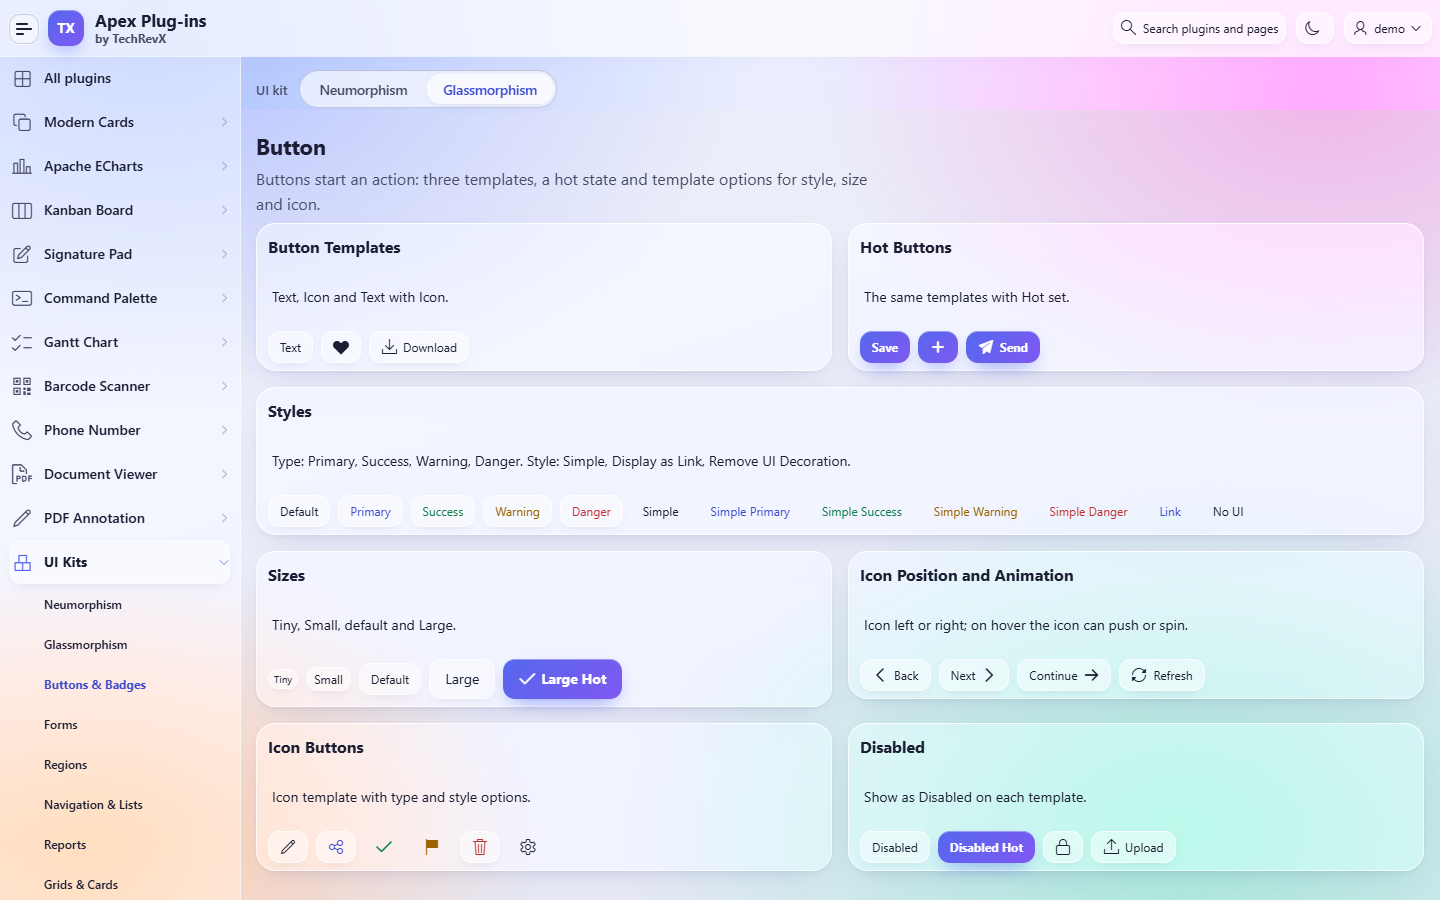
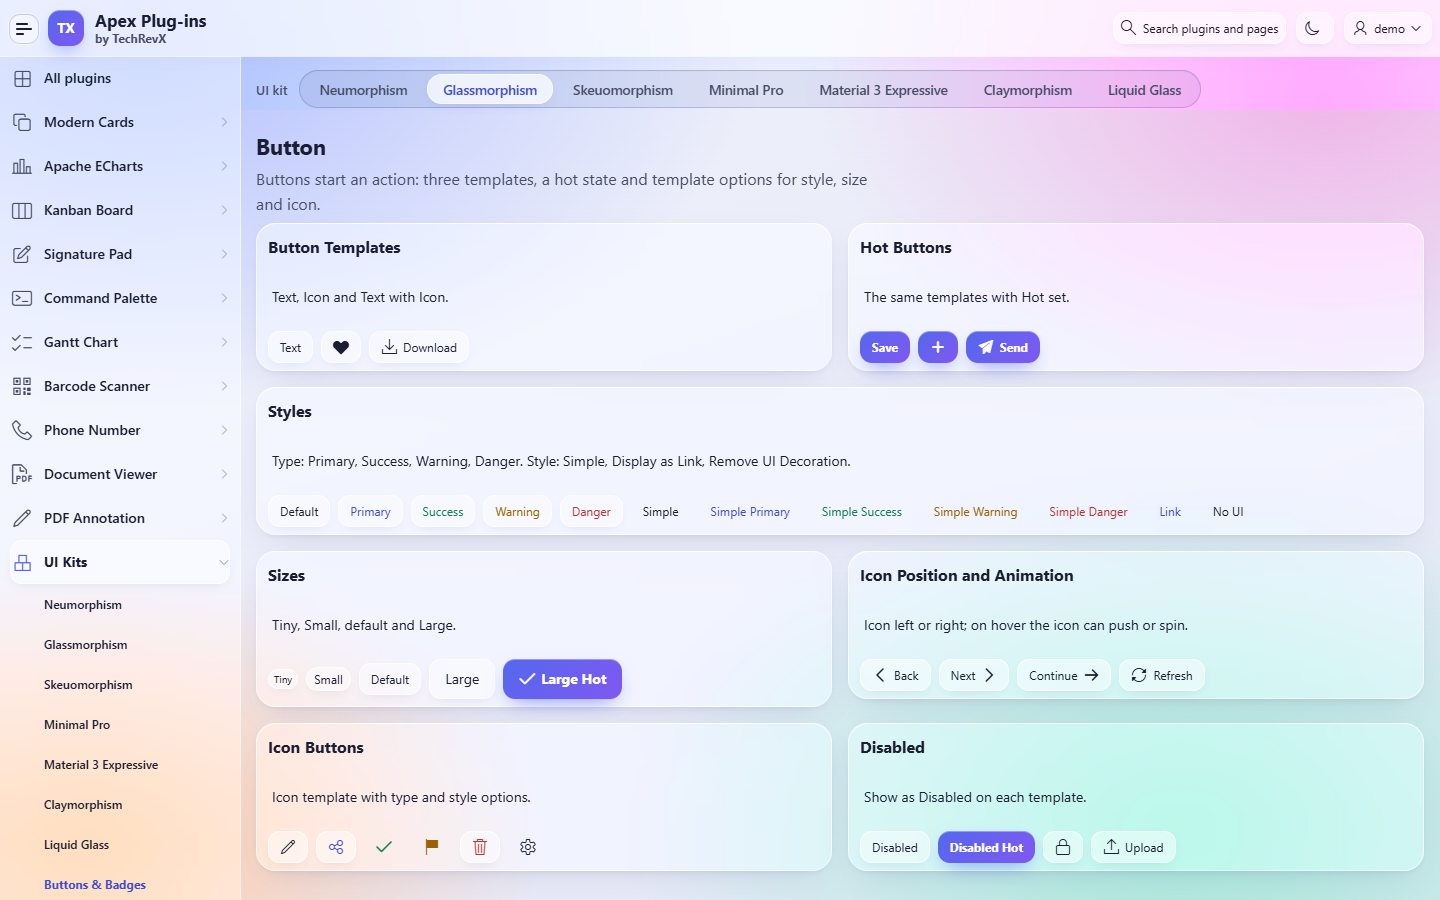
1.0.3: fields and their attached buttons are one well; links to the new UI kits

diff --git a/glassmorphism.css b/glassmorphism.css
@@ -1,5 +1,5 @@
 /*!
- * Glassmorphism UI Kit for Oracle APEX Universal Theme 1.0.2 (built and tested with APEX 26.2, theme style Iris)
+ * Glassmorphism UI Kit for Oracle APEX Universal Theme 1.0.3 (built and tested with APEX 26.2, theme style Iris)
  * TechRevX, MIT License - https://github.com/aamirkhanz/apex-glassmorphism-ui-kit
  *
  * Frosted glass: surfaces are translucent panels that blur and brighten what lies behind them, with a thin light
@@ -972,6 +972,43 @@ input[type="number"]::-webkit-outer-spin-button { -webkit-appearance: none; marg
   box-shadow: var(--gm-raised-sm);
 }
 .t-Form-itemWrapper > .a-Button:active { box-shadow: var(--gm-inset-sm); }
+/* buttons attached to a field (date picker, color picker, popup LOV, show password): the end of the field, aligned with
+   it and in its color and edge, not a separate raised button */
+.t-Form-itemWrapper :is(.a-Button--calendar, .a-Button--colorPicker, .a-Button--popupLOV, .t-Button--passwordVisibility) {
+  align-self: stretch;
+  margin-inline-start: 0 !important;
+  border: 1px solid var(--a-field-input-border-color, transparent) !important;
+  border-inline-start-width: 0 !important;
+  border-radius: 0 var(--gm-radius-sm) var(--gm-radius-sm) 0 !important;
+  background: var(--a-field-input-state-background-color, var(--gm-well)) !important;
+  color: var(--gm-text-2) !important;
+  box-shadow: none !important;
+  transform: none !important;
+}
+.t-Form-itemWrapper :is(.a-Button--calendar, .a-Button--colorPicker, .a-Button--popupLOV, .t-Button--passwordVisibility):hover { color: var(--gm-accent-text) !important; }
+/* fields with an attached button: one well around the input and its button */
+.t-Form-itemWrapper:has(> :is(.apex-item-group--popup-lov, .apex-item-group--password, a-date-picker, a-color-picker)) > *,
+.t-Form-itemWrapper > :is(.apex-item-group--popup-lov, .apex-item-group--password),
+.t-Form-itemWrapper > :is(a-date-picker, a-color-picker) { display: flex; }
+.t-Form-itemWrapper > :is(.apex-item-group--popup-lov, .apex-item-group--password, a-date-picker, a-color-picker) {
+  flex: 1 1 auto;
+  border-radius: var(--gm-radius-sm);
+  background: var(--a-field-input-state-background-color, var(--gm-well));
+  box-shadow: var(--gm-inset);
+}
+.t-Form-itemWrapper > :is(.apex-item-group--popup-lov, .apex-item-group--password, a-date-picker, a-color-picker) > input {
+  flex: 1 1 auto;
+  background-color: transparent !important;
+  box-shadow: none !important;
+}
+.t-Form-itemWrapper > :is(.apex-item-group--popup-lov, .apex-item-group--password, a-date-picker, a-color-picker) :is(.a-Button--calendar, .a-Button--colorPicker, .a-Button--popupLOV, .t-Button--passwordVisibility) {
+  border: 0 !important;
+  border-inline-start: 1px solid var(--gm-line) !important;
+  background: transparent !important;
+}
+.t-Form-itemWrapper > :is(.apex-item-group--popup-lov, .apex-item-group--password, a-date-picker, a-color-picker):focus-within { box-shadow: var(--gm-inset), var(--gm-focus); }
+/* the expand button inside select one / select many: a plain icon inside the field */
+.apex-item-comboselect .a-Button--comboSelect { border: 0 !important; background: transparent !important; color: var(--gm-text-2) !important; box-shadow: none !important; }
 /* labels, help, errors */
 .t-Form-label { color: var(--gm-text); font-weight: 600; }
 .t-Form-helpText, .t-Form-inlineHelp { color: var(--gm-text-2); }

diff --git a/glassmorphism.js b/glassmorphism.js
@@ -1,5 +1,5 @@
 /*
- * Glassmorphism UI Kit for Oracle APEX Universal Theme 1.0.2: light and dark mode
+ * Glassmorphism UI Kit for Oracle APEX Universal Theme 1.0.3: light and dark mode
  * TechRevX, MIT License - https://github.com/aamirkhanz/apex-glassmorphism-ui-kit
  *
  * The look is in glassmorphism.css; this file only switches between light and dark. Without it the kit stays light,

diff --git a/README.md b/README.md
@@ -9,7 +9,7 @@ Frosted glass for Oracle APEX Universal Theme: translucent panels with a thin li
 | | |
 |---|---|
 | **Files** | `glassmorphism.css` (the look), `glassmorphism.js` (optional light/dark switch) |
-| **Version** | 1.0.2 |
+| **Version** | 1.0.3 |
 | **Built for** | Oracle APEX 26.2, Universal Theme with the Iris theme style (tested); other styles are not tested yet |
 | **Browsers** | Current Chrome, Edge, Safari and Firefox (the blur uses `backdrop-filter`; without it the panels stay, unblurred) |
 | **License** | MIT |
@@ -97,4 +97,4 @@ MIT, see [LICENSE](LICENSE).
 
 ## More
 
-Plug-ins and updates for Oracle APEX by [TechRevX](https://www.techrevx.com). See also the [Neumorphism UI Kit](https://github.com/aamirkhanz/apex-neumorphism-ui-kit) and the [Skeuomorphism UI Kit](https://github.com/aamirkhanz/apex-skeuomorphism-ui-kit).
+Plug-ins and updates for Oracle APEX by [TechRevX](https://www.techrevx.com). More UI kits: [Neumorphism UI Kit](https://github.com/aamirkhanz/apex-neumorphism-ui-kit), [Skeuomorphism UI Kit](https://github.com/aamirkhanz/apex-skeuomorphism-ui-kit), [Minimal Pro UI Kit](https://github.com/aamirkhanz/apex-minimal-pro-ui-kit), [Material 3 Expressive UI Kit](https://github.com/aamirkhanz/apex-material-expressive-ui-kit), [Claymorphism UI Kit](https://github.com/aamirkhanz/apex-claymorphism-ui-kit), [Liquid Glass UI Kit](https://github.com/aamirkhanz/apex-liquid-glass-ui-kit).

diff --git a/CHANGELOG.md b/CHANGELOG.md
@@ -1,5 +1,10 @@
 # Changelog
 
+## 1.0.3 (2026-10-31)
+
+- Fields with an attached button (date picker, color picker, popup LOV, show password): the field and its button are one well, with the same height, color and edge, and a thin divider before the icon.
+- Select one / select many: the expand icon sits inside the field.
+
 ## 1.0.2 (2026-10-30)
 
 - Badge List with colors and Circular values: the count sits in a clear circle inside its tile, which keeps room for it.
